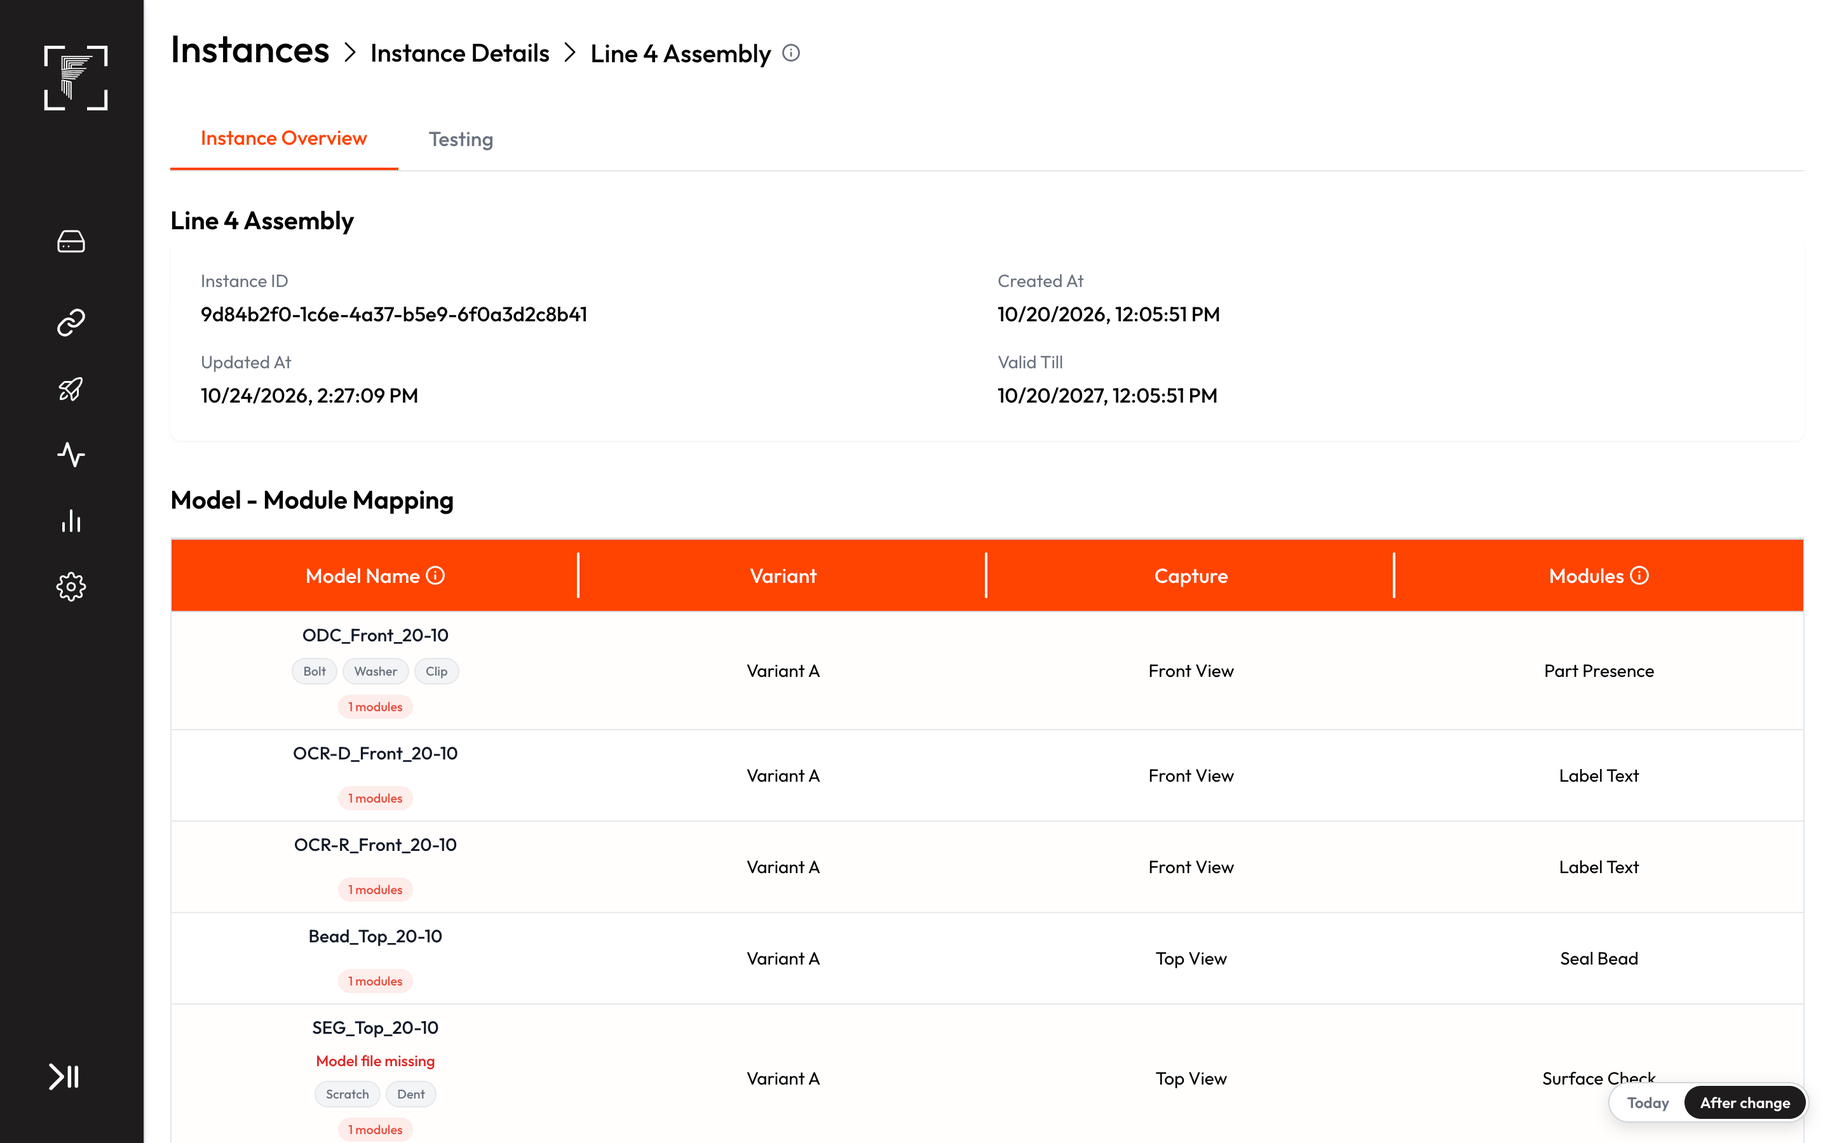
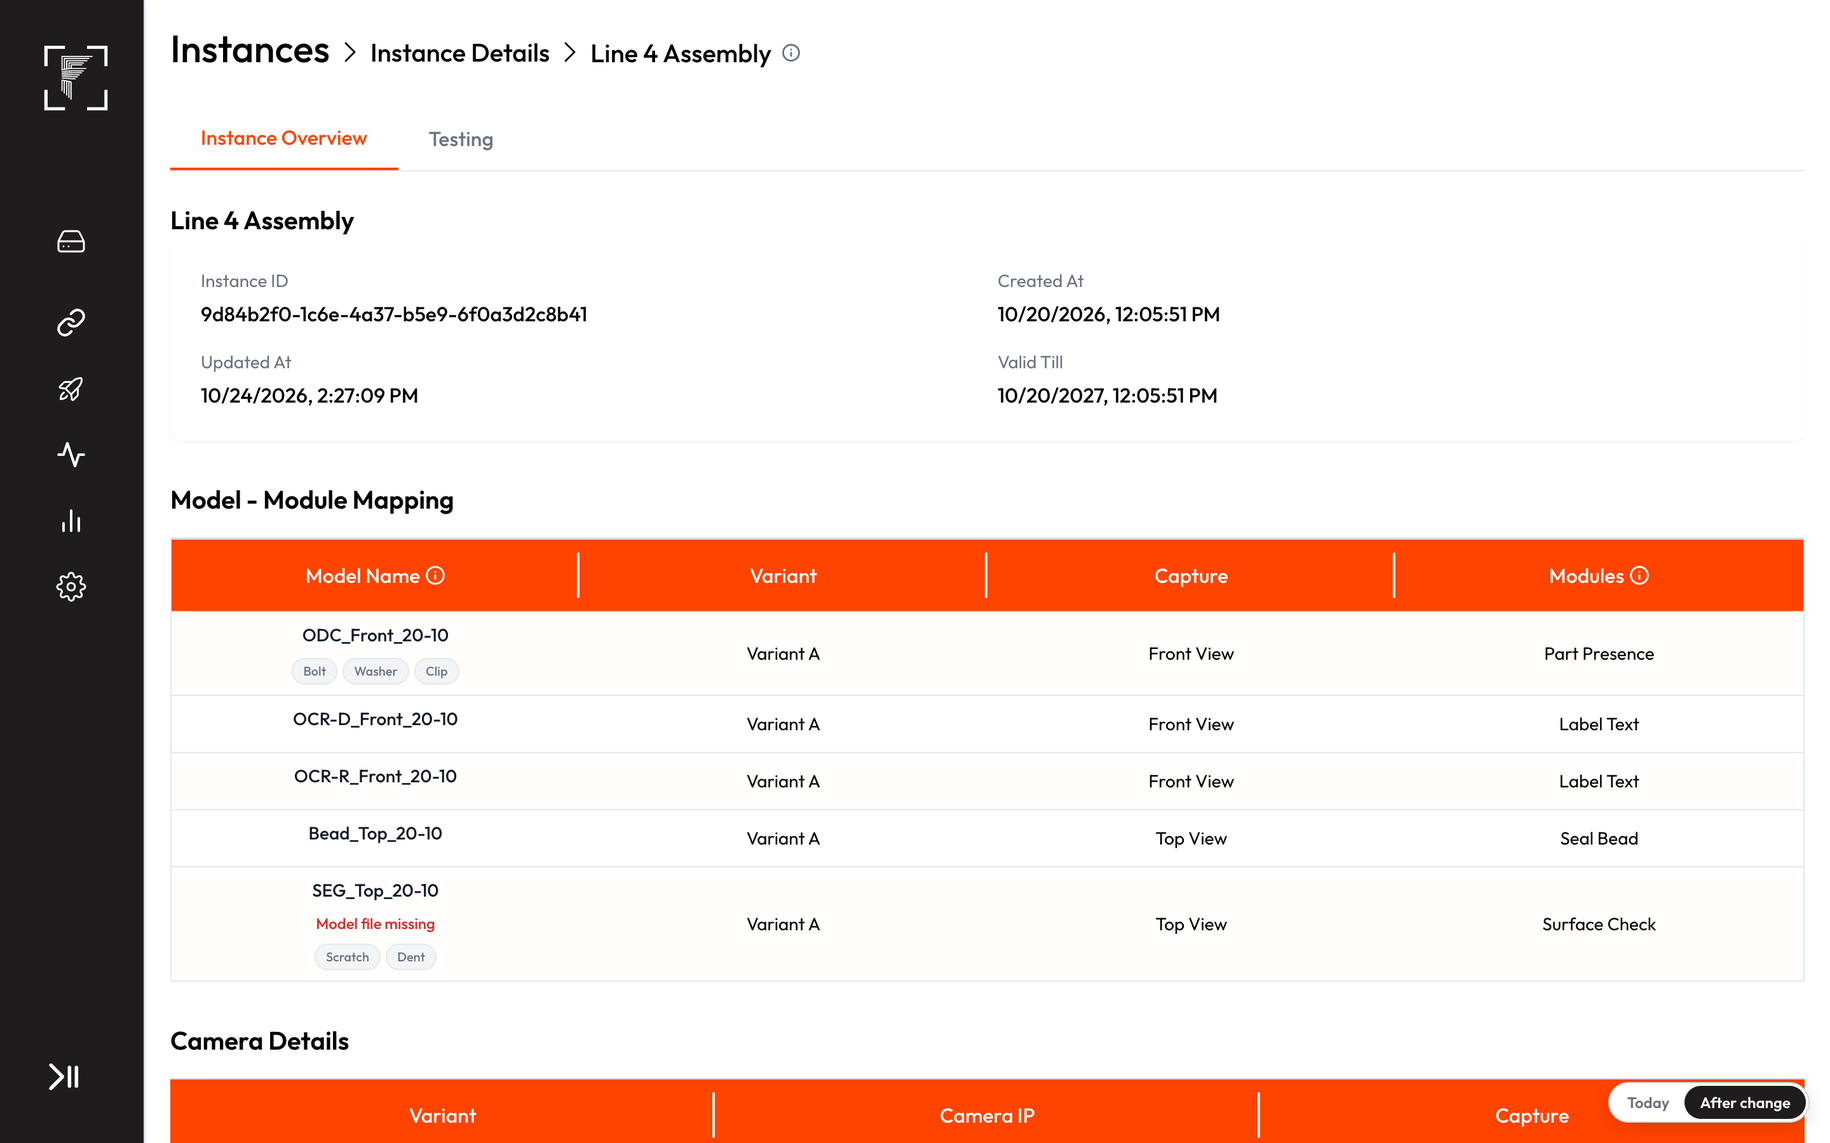
Round 3: create with some models, mapping rows per module, Dashboard Model Status column, Only Capture term, Not inspected font

diff --git a/edge-instances.html b/edge-instances.html
@@ -193,7 +193,6 @@ button.mchip:hover{filter:brightness(.96)}
 .mm-bad{font-size:12px;line-height:16px;font-weight:500;color:#dc2626}
 .mm-cls{display:flex;flex-wrap:wrap;justify-content:center;gap:4px}
 .chip-cls{border-radius:9999px;border:1px solid #e5e7eb;background:#f3f4f6;padding:2px 8px;font-size:10px;line-height:15px;font-weight:500;color:#6b7280}
-.chip-mods{display:inline-block;border-radius:9999px;background:rgb(231 76 60/.1);padding:2px 8px;font-size:10px;line-height:15px;font-weight:500;color:#E74C3C}
 .g700{color:#374151}
 .row-alt{background:rgb(255 247 237/.1)}
 .td-empty{display:block;width:100%;padding:32px 0;text-align:center;color:#6b7280}
@@ -631,8 +630,8 @@ button.mchip:hover{filter:brightness(.96)}
     'Shared configs (camera configs, capture positions) will be deleted and re-created. This affects all instances on this edge.',
     'If camera config IDs have changed, re-upload the first instance as well.'
   ];
-  var LOCKED_NONE = 'Edge testing and Capture and inference deployment stay locked until all models are added.';
-  var LOCKED_SOME = 'Captures missing models can\'t be tested. Capture and inference deployment stays locked until all models are added.';
+  var LOCKED_NONE = 'Edge testing and Capture and Inference deployment stay locked until all models are added.';
+  var LOCKED_SOME = 'Captures missing models can\'t be tested. Capture and Inference deployment stays locked until all models are added.';
 
   function validate(p, target) {
     var errors = [], warnings = [];
@@ -1008,7 +1007,8 @@ button.mchip:hover{filter:brightness(.96)}
     sizeColumns();
   }
   // ---------- Model Status chip popup (new): the instance page's Model - Module Mapping table ----------
-  // Rows grouped by model; modules with an empty slot grouped under "Not added yet"; a model failing an Edge check shows why.
+  // One row per model; each module with an empty slot is its own "Not added yet" row; a model failing an Edge check shows why.
+  // No "n modules" chip: the Modules column already names them.
   var modelsRef = null;
   function openModels(ref) {
     var i = inst(ref), mods = modulesOf(i), body = '', idx = 0;
@@ -1019,18 +1019,14 @@ button.mchip:hover{filter:brightness(.96)}
       m.models.forEach(function (n) {
         body += '<tr class="' + (idx++ % 2 === 0 ? 'row-alt' : '') + '">' +
           td('<div class="mm-cell"><span class="mm-name">' + esc(n + i.sfx) + '</span>' + (v !== 'ready' ? '<span class="mm-bad">' + esc(v) + '</span>' : '') +
-            '<div class="mm-cls">' + m.classes.map(function (c) { return '<span class="chip-cls">' + esc(c) + '</span>'; }).join('') + '</div><span class="chip-mods">1 modules</span></div>') +
+            '<div class="mm-cls">' + m.classes.map(function (c) { return '<span class="chip-cls">' + esc(c) + '</span>'; }).join('') + '</div></div>') +
           td('Variant A', ' class="g700"') + td(esc(m.capture), ' class="g700"') + td(esc(m.module), ' class="g700"') + '</tr>';
       });
     });
-    var byCap = {};
-    mods.filter(function (m) { return i.models[m.key] === 'none'; }).forEach(function (m) { (byCap[m.capture] = byCap[m.capture] || []).push(m.module); });
-    var caps = Object.keys(byCap), total = caps.reduce(function (n, c) { return n + byCap[c].length; }, 0), cls = idx % 2 === 0 ? 'row-alt' : '';
-    caps.forEach(function (c, ci) {
-      body += '<tr class="' + cls + '">' +
-        (ci === 0 ? td('<div class="mm-cell"><span class="mm-name none">Not added yet</span><div class="mm-cls"></div><span class="chip-mods">' + total + ' modules</span></div>', ' rowspan="' + caps.length + '"') +
-          td('Variant A', ' rowspan="' + caps.length + '" class="g700"') : '') +
-        td(esc(c), ' class="g700"') + td(esc(byCap[c].join(', ')), ' class="g700"') + '</tr>';
+    mods.filter(function (m) { return i.models[m.key] === 'none'; }).forEach(function (m) {
+      body += '<tr class="' + (idx++ % 2 === 0 ? 'row-alt' : '') + '">' +
+        td('<div class="mm-cell"><span class="mm-name none">Not added yet</span></div>') +
+        td('Variant A', ' class="g700"') + td(esc(m.capture), ' class="g700"') + td(esc(m.module), ' class="g700"') + '</tr>';
     });
     if (!body) body = '<tr><td colspan="4"><div class="td-in"><span class="td-empty">No models required</span></div></td></tr>';
     document.getElementById('modalRoot').innerHTML =

diff --git a/edge-dashboard.html b/edge-dashboard.html
@@ -104,6 +104,7 @@ body{overflow:auto}
 .mchip{display:inline-flex;align-items:center;white-space:nowrap;border-radius:9999px;border:1px solid;padding:2px 8px;font-size:11px;line-height:16px;font-weight:500}
 .ch-some{background:#fefce8;color:#a16207;border-color:#fef08a}
 .ch-none{background:#f3f4f6;color:#6b7280;border-color:#e5e7eb}
+.ch-all{background:#f0fdf4;color:#15803d;border-color:#bbf7d0}
 .am{position:absolute;z-index:9999;width:128px;border-radius:6px;border:1px solid #e5e7eb;background:#fff;box-shadow:0 10px 15px -3px rgb(0 0 0 / .1),0 4px 6px -4px rgb(0 0 0 / .1)}
 .am button{display:flex;width:100%;align-items:center;gap:8px;padding:8px;text-align:left;font-size:12px;line-height:16px;color:#374151}
 .am button:hover{background:#f9fafb}
@@ -350,6 +351,7 @@ html.in-shell .pctl{display:none!important}
             <colgroup id="cols"></colgroup>
             <thead><tr>
               <th>Instance<div class="rz"></div></th>
+              <th id="thModel" hidden>Model Status<div class="rz"></div></th>
               <th>Dashboard Name<div class="rz"></div></th>
               <th><span class="thi">Dashboard Link<span data-tip="Web address of the live dashboard."><svg width="16" height="16" viewBox="0 0 24 24" fill="none" stroke="currentColor" stroke-width="2.25" stroke-linecap="round" stroke-linejoin="round"><circle cx="12" cy="12" r="10"/><path d="M12 16v-4"/><path d="M12 8h.01"/></svg></span></span><div class="rz"></div></th>
               <th>Created At<div class="rz"></div></th>
@@ -607,13 +609,15 @@ html.in-shell .pctl{display:none!important}
     }).join('');
 
     var rows = all.filter(function (d) { return !filter || d.instance() === filter; });
+    $('thModel').hidden = mode !== 'after';
     if (!all.length) {
-      $('rows').innerHTML = '<tr><td colspan="7"><div class="c"><div class="empty">No dashboards found.</div></div></td></tr>';
+      $('rows').innerHTML = '<tr><td colspan="' + nCols() + '"><div class="c"><div class="empty">No dashboards found.</div></div></td></tr>';
     } else {
       $('rows').innerHTML = rows.map(function (d) {
         var on = d.status === 'Active';
         return '<tr class="' + (on ? 'act' : '') + '" data-id="' + d.id + '">' +
-          '<td><div class="c">' + insCell(d) + '</div></td>' +
+          '<td><div class="c">' + esc(d.instance()) + '</div></td>' +
+          (mode === 'after' ? '<td><div class="c">' + modelChip(d.instance()) + '</div></td>' : '') +
           '<td><div class="c"><span class="dn" data-open="' + d.id + '">' + esc(d.name()) + '</span></div></td>' +
           '<td><div class="c"><div class="dl"><a href="#" data-link="1">' + esc(d.url) + '</a></div></div></td>' +
           '<td><div class="c">' + esc(d.created) + '</div></td>' +
@@ -625,19 +629,19 @@ html.in-shell .pctl{display:none!important}
     }
     sizeCols();
   }
-  // Our instance carries its Model Status chip until every model is uploaded (After only).
-  function insCell(d) {
-    var n = d.instance();
-    if (mode === 'after' && n === S.instanceName && !S.modelsUploaded) {
-      var chip = S.someUploaded ? '<span class="mchip ch-some">2 of 4 models present</span>' : '<span class="mchip ch-none">No models</span>';
-      return '<span class="ins-nm"><span>' + esc(n) + '</span>' + chip + '</span>';
+  // After change: Model Status column next to Instance (same chips as the Edge Instances table).
+  // Line 3 follows its uploads: No models, then 2 of 4, then All models present.
+  function modelChip(n) {
+    if (n === S.instanceName && !S.modelsUploaded) {
+      return S.someUploaded ? '<span class="mchip ch-some">2 of 4 models present</span>' : '<span class="mchip ch-none">No models</span>';
     }
-    return esc(n);
+    return '<span class="mchip ch-all">All models present</span>';
   }
+  function nCols() { return mode === 'after' ? 8 : 7; }
   function sizeCols() {
-    var w = $('tblWrap').offsetWidth || 1286;
-    var per = Math.min(w / 7, 300);
-    var h = ''; for (var i = 0; i < 7; i++) h += '<col style="width:' + per + 'px">';
+    var w = $('tblWrap').offsetWidth || 1286, n = nCols();
+    var per = Math.min(w / n, 300);
+    var h = ''; for (var i = 0; i < n; i++) h += '<col style="width:' + per + 'px">';
     $('cols').innerHTML = h;
   }
 

diff --git a/index.html b/index.html
@@ -89,6 +89,7 @@
   // today: false when the step only exists after the change (greyed out in Today).
   var SECTIONS = [
     { id: 'vision-models',            group: 'Frinks Vision',               label: 'Model Selection',              file: 'vision-model-selection.html?state=create' },
+    { id: 'vision-models-some',                                             label: 'Create with some models',      file: 'vision-model-selection.html?state=create-some' },
     { id: 'vision-instances',                                               label: 'Instance table',               file: 'vision-instances.html?state=models-remaining' },
     { id: 'edge-upload',              group: 'Frinks Edge',                 label: 'Upload configuration',         file: 'edge-instances.html?state=upload' },
     { id: 'edge-instances',                                                 label: 'Instances table',              file: 'edge-instances.html?state=uploaded' },
@@ -98,11 +99,11 @@
     { id: 'edge-dashboard',                                                 label: 'Dashboard Builder',            file: 'edge-dashboard.html?state=default&view=list' },
     { id: 'edge-emc',                                                       label: 'Edit Module Configurations',   file: 'edge-emc.html?state=odc&models=none' },
     { id: 'edge-image-saving',                                              label: 'Image Saving',                 file: 'edge-image-saving.html' },
-    { id: 'edge-deploy-inference',    group: 'Edge: Capture and inference', label: 'Choose Capture and inference', file: 'edge-deploy.html?open=create&kind=inference' },
+    { id: 'edge-deploy-inference',    group: 'Edge: Capture and Inference', label: 'Choose Capture and Inference', file: 'edge-deploy.html?open=create&kind=inference' },
     { id: 'edge-inference-instances',                                       label: 'Pick instances',               file: 'edge-deploy.html?open=create&kind=inference&step=instance-details' },
     { id: 'edge-deployed-inference',                                        label: 'Deployed',                     file: 'edge-deploy.html?state=deployed-inference' },
     { id: 'edge-deploy-model-free',                                         label: 'No model needed',              file: 'edge-deploy.html?open=deploy&target=line-6&step=instance-details' },
-    { id: 'edge-deploy-capture',      group: 'Edge: Only capture',          label: 'Choose Only capture',          file: 'edge-deploy.html?open=create&kind=capture', today: false },
+    { id: 'edge-deploy-capture',      group: 'Edge: Only Capture',          label: 'Choose Only Capture',          file: 'edge-deploy.html?open=create&kind=capture', today: false },
     { id: 'edge-capture-instances',                                         label: 'Pick instances',               file: 'edge-deploy.html?open=create&kind=capture&step=instance-details', today: false },
     { id: 'edge-deployed-capture',                                          label: 'Deployed',                     file: 'edge-deploy.html?state=deployed-capture', today: false },
     { id: 'edge-reports-capture',                                           label: 'Reports',                      file: 'edge-reports.html?state=capture-only', today: false },

diff --git a/edge-instance-detail.html b/edge-instance-detail.html
@@ -535,7 +535,7 @@ a.sb-item:hover{background:rgb(255 255 255/.2)}
     });
   }
 
-  // ---------- Model - Module Mapping (ModelModuleMappingTable.jsx) ----------
+  // ---------- Model - Module Mapping (ModelModuleMappingTable.jsx); After drops the "n modules" chip ----------
   function mappingTable() {
     var headers = [{ t: 'Model Name', tip: 'AI model and its classes.' }, { t: 'Variant' }, { t: 'Capture' }, { t: 'Modules', tip: 'Modules that use this model.' }];
     var body = '', idx = 0;
@@ -544,25 +544,20 @@ a.sb-item:hover{background:rgb(255 255 255/.2)}
       body += '<tr class="' + (idx++ % 2 === 0 ? 'row-alt' : '') + '">' +
         td('<div class="mm-cell"><span class="mm-name">' + esc(m.model) + '</span>' + (bad(m) ? '<span class="mm-bad">' + esc(modStatus(m.mod)) + '</span>' : '') + '<div class="mm-cls">' +
           m.classes.map(function (c) { return '<span class="chip-cls">' + esc(c) + '</span>'; }).join('') +
-          '</div><span class="chip-mods">1 modules</span></div>') +
+          '</div>' + (mode === 'after' ? '' : '<span class="chip-mods">1 modules</span>') + '</div>') +
         td(esc(m.variant), ' class="g700"') + td(esc(m.capture), ' class="g700"') +
         td('<div class="trunc">' + esc(m.module) + '</div>', ' class="g700"') + '</tr>';
     });
     if (locked) {
-      // After: modules whose model slot is empty are grouped under one "not added" entry, same grouping as a model.
-      var byCap = {};
+      // After: each module whose model slot is empty is its own "Not added yet" row (no "n modules" chip).
+      var seen = {};
       MAPPINGS.filter(function (m) { return !hasModel(m); }).forEach(function (m) {
-        byCap[m.capture] = byCap[m.capture] || [];
-        if (byCap[m.capture].indexOf(m.module) < 0) byCap[m.capture].push(m.module);
-      });
-      var caps = Object.keys(byCap), total = caps.reduce(function (n, c) { return n + byCap[c].length; }, 0);
-      var cls = idx++ % 2 === 0 ? 'row-alt' : '';
-      caps.forEach(function (c, ci) {
-        body += '<tr class="' + cls + '">' +
-          (ci === 0 ? td('<div class="mm-cell"><span class="mm-name none">Not added yet</span><div class="mm-cls"></div><span class="chip-mods">' + total + ' modules</span></div>', ' rowspan="' + caps.length + '"') +
-            td('Variant A', ' rowspan="' + caps.length + '" class="g700"') : '') +
-          td(esc(c), ' class="g700"') +
-          td('<div class="trunc">' + esc(byCap[c].join(', ')) + '</div>', ' class="g700"') + '</tr>';
+        if (seen[m.module]) return;
+        seen[m.module] = 1;
+        body += '<tr class="' + (idx++ % 2 === 0 ? 'row-alt' : '') + '">' +
+          td('<div class="mm-cell"><span class="mm-name none">Not added yet</span></div>') +
+          td(esc(m.variant), ' class="g700"') + td(esc(m.capture), ' class="g700"') +
+          td('<div class="trunc">' + esc(m.module) + '</div>', ' class="g700"') + '</tr>';
       });
     }
     if (!body) {

diff --git a/edge-deploy.html b/edge-deploy.html
@@ -85,7 +85,7 @@ a.sb-item:hover{background:rgb(255 255 255/.2)}
 .mchip.some{border-color:#fef08a;background:#fefce8;color:#a16207}
 .mchip.none{border-color:#e5e7eb;background:#f3f4f6;color:#6b7280}
 .mchip.bad{border-color:#fecaca;background:#fef2f2;color:#b91c1c}
-/* "Only capture" tag next to a running instance's name (grey pill) */
+/* "Only Capture" tag next to a running instance's name (grey pill) */
 .tag-oc{display:inline-flex;align-items:center;border-radius:9999px;border:1px solid #e5e7eb;background:#f3f4f6;padding:2px 8px;font-size:12px;line-height:16px;font-weight:500;color:#4b5563;white-space:nowrap}
 .ml2{margin-left:8px}
 .wrap .td-in{flex-wrap:wrap;gap:4px}
@@ -459,13 +459,13 @@ a.sb-item:hover{background:rgb(255 255 255/.2)}
   function list() { return INSTANCES; }
   var LM = { 0: 'Instance level', 1: 'Variant level', 2: 'Capture group level', 3: 'Capture level' };
   var LOADING_MODES = [{ id: 0, name: 'Instance level' }, { id: 1, name: 'Variant level' }, { id: 3, name: 'Capture level' }];
-  var KIND_LABEL = { inference: 'Capture and inference', capture: 'Only capture' };
+  var KIND_LABEL = { inference: 'Capture and Inference', capture: 'Only Capture' };
   var KIND_DESC = { inference: 'Images are inspected with AI models.', capture: 'Raw images are saved. No AI models are loaded.' };
   // Capture and inference needs every model: only All models present instances can be picked.
   var NO_INFERENCE = {
-    some: 'Not all models are present on this instance. Choose Only capture to deploy it.',
-    none: 'No models on this instance. Choose Only capture to deploy it.',
-    bad: 'Incorrect models on this instance. Choose Only capture to deploy it.'
+    some: 'Not all models are present on this instance. Choose Only Capture to deploy it.',
+    none: 'No models on this instance. Choose Only Capture to deploy it.',
+    bad: 'Incorrect models on this instance. Choose Only Capture to deploy it.'
   };
   var NO_INFERENCE_SHORT = { some: 'Not all models are present on this instance.', none: 'No models on this instance.', bad: 'Incorrect models on this instance.' };
   function canInfer(inst) { return inst.models === 'all'; }
@@ -579,7 +579,7 @@ a.sb-item:hover{background:rgb(255 255 255/.2)}
       }
     });
   }
-  function tag(inst) { return after && inst.status === 'running' && inst.kind === 'capture' ? '<span class="tag-oc ml2">Only capture</span>' : ''; }
+  function tag(inst) { return after && inst.status === 'running' && inst.kind === 'capture' ? '<span class="tag-oc ml2">Only Capture</span>' : ''; }
 
   // ---------- Page (index.jsx + DeploymentInstanceRow.jsx) ----------
   var TIPS = {

diff --git a/vision-model-selection.html b/vision-model-selection.html
@@ -735,7 +735,8 @@ sup{font-size:75%;line-height:0;position:relative;vertical-align:baseline;top:-.
   var STEPS = ['Basic', 'Add Camera Details', 'Recipe', 'Model Selection', 'Finish'];   // instanceWizard.getInstanceTimeline(false)
   var wizardOpen = false, wzEdit = false, step = 1, picks = {}, collapsed = {}, selectedCaps = { cc1: true, cc2: true };
   /* GET /model: which slots have a trained model at this stage */
-  var TRAINED = state === 'edit' ? ALL_KEYS.slice() : state === 'edit-some' ? FIRST.slice() : [];
+  // create-some: a new instance where only Part Presence and Label Text have trained models yet
+  var TRAINED = state === 'edit' ? ALL_KEYS.slice() : state === 'edit-some' || state === 'create-some' ? FIRST.slice() : [];
   function isTrained(k){ return TRAINED.indexOf(k) >= 0; }
   function pickedCount(){ return ALL_SLOTS.filter(function(s){ return picks[s.key]; }).length; }
   function allPicked(){ return ALL_SLOTS.every(function(s){ return picks[s.key]; }); }
@@ -956,7 +957,7 @@ sup{font-size:75%;line-height:0;position:relative;vertical-align:baseline;top:-.
 
   function afterFinish(wasEdit, some){
     var to = null;
-    if (!wasEdit) to = 'vision-instances';
+    if (!wasEdit) to = state === 'create-some' ? null : 'vision-instances';   // create-some: the table updates in place
     else if (OURS.status === 'completed') { writeState({ modelsSelected: true }); to = 'vision-download-models'; }
     else if (state === 'edit-some' && some) { writeState({ someSelected: true }); to = 'vision-download-some'; }
     if (to) setTimeout(function(){ nav(to); }, 1500);
@@ -1095,7 +1096,9 @@ sup{font-size:75%;line-height:0;position:relative;vertical-align:baseline;top:-.
         openWizard(true, 4);
         if (state === 'edit' || pickedAll) { var mb = document.querySelector('#stepHost .ms-body'); if (mb) mb.scrollTop = mb.scrollHeight; }   // Top View in view
       } else {
+        if (state === 'create-some') FIRST.forEach(function(k){ picks[k] = true; });   // models picked for the modules that have one
         openWizard(false, 4);
+        if (state === 'create-some') { var cb = document.querySelector('#stepHost .ms-body'); if (cb) cb.scrollTop = cb.scrollHeight; }   // Top View (no models yet) in view
       }
     } else if (openParam === 'download') {
       openDownload(OURS, state === 'completed' ? 'selective' : 'complete', true);

diff --git a/edge-reports.html b/edge-reports.html
@@ -854,7 +854,7 @@ html.in-shell .pctl{display:none!important}
         return esc(v);
       }
       case 'resultImages':
-        if (AFTER && outer.notInspected) return '<span class="ni-t">Not inspected</span>';
+        if (AFTER && outer.notInspected) return '<span class="res ni">Not inspected</span>';   // same look as Overall Result
         return resultImagesFor(outer).length ? '<button type="button" class="lnk" data-view="sa" data-row="' + ri + '">View Images </button>' : 'N/A';
       case 'rawImages':
         return rawImagesFor(outer).length ? '<button type="button" class="lnk" data-view="raw" data-row="' + ri + '">View Raw Images</button>' : 'N/A';

diff --git a/edge-image-saving.html b/edge-image-saving.html
@@ -516,7 +516,7 @@ a.sb-item:hover{background:rgb(255 255 255/.2)}
         '</thead>' +
         '<tbody>' + ROWS.map(rowHTML).join('') + '</tbody>' +
         '</table></div></div></div>' +
-        (mode === 'after' ? '<p class="tbl-note">Note: For Only Capture deployments, raw images are always saved.</p>' : '');
+        (mode === 'after' ? '<p class="tbl-note">Note: For &quot;Only Capture&quot; deployments, raw images are always saved.</p>' : '');
     } else if (!isLoading && selectedInstance) {
       h += '<div class="empty">No capture configurations found for this instance</div>';
     } else if (!isLoading) {
